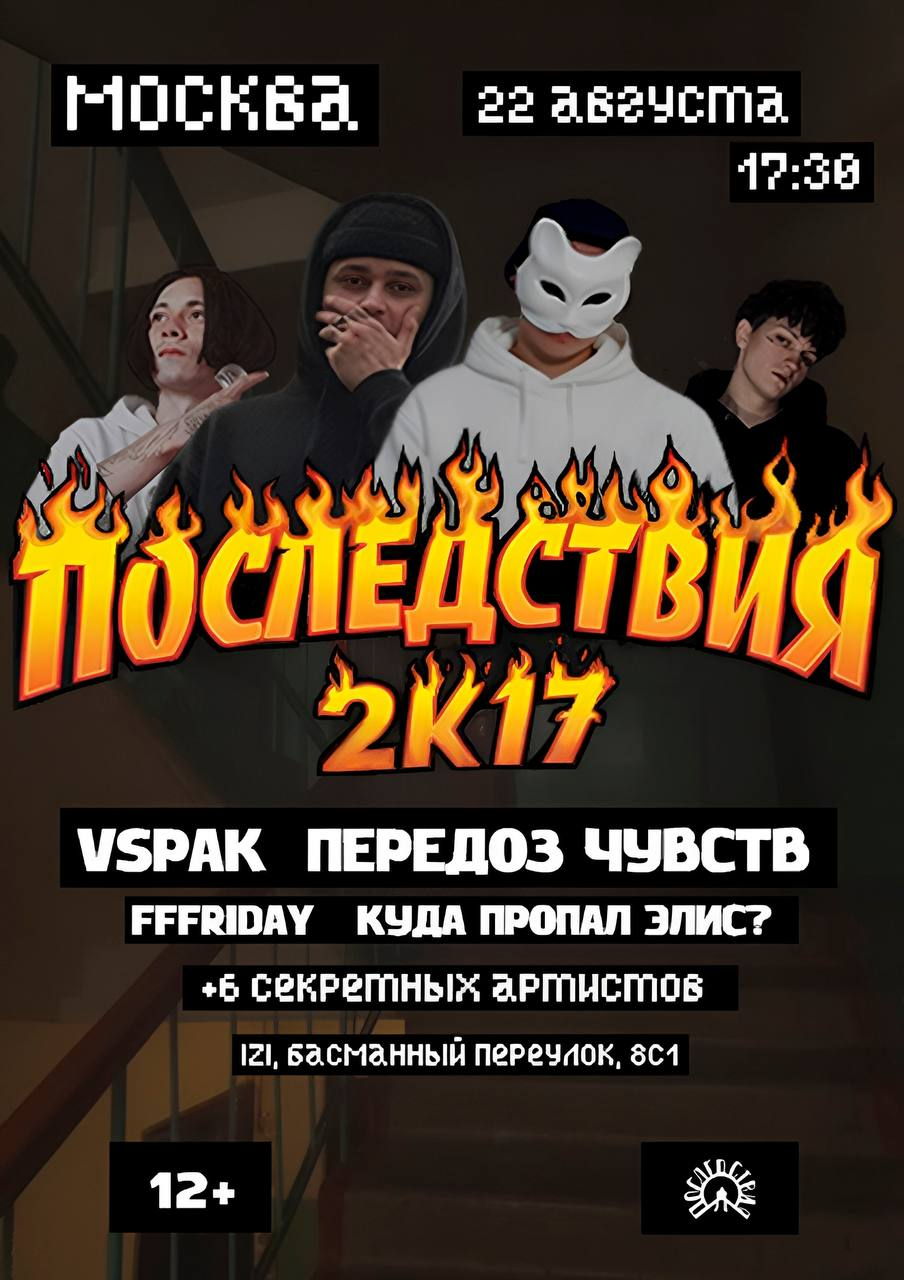
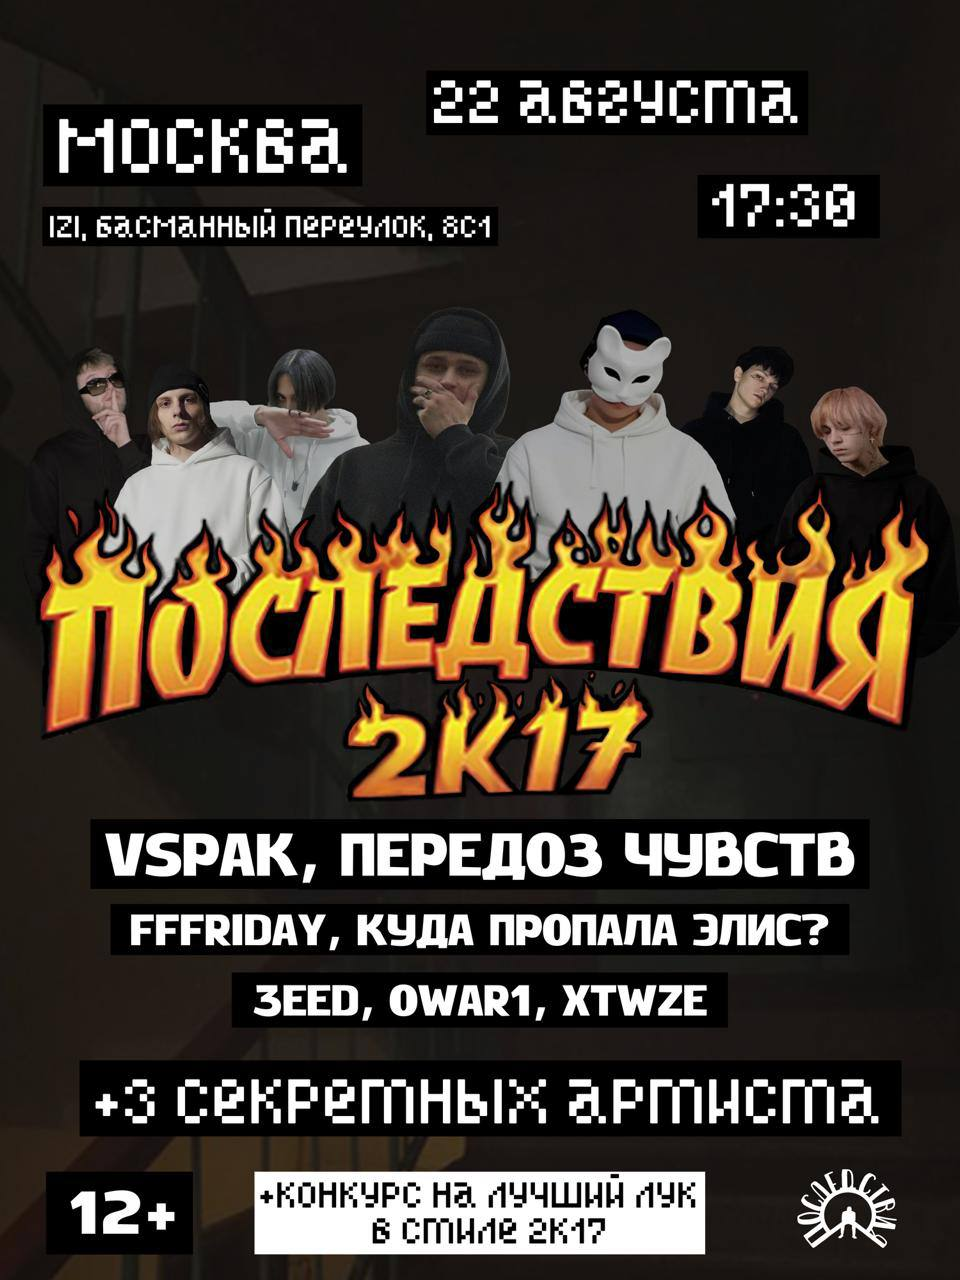
Add features for spam(add photo & html)

diff --git a/handlers/admin.py b/handlers/admin.py
@@ -1,9 +1,9 @@
 import asyncio
-
+from aiogram import F
 from aiogram import Router, F, Bot
 from aiogram.filters import Command
 from aiogram.fsm.context import FSMContext
-from aiogram.types import Message, CallbackQuery
+from aiogram.types import Message, CallbackQuery, InputMediaPhoto
 
 import db
 import text
@@ -52,12 +52,15 @@ async def cb_admin_back(callback: CallbackQuery, state: FSMContext):
 @router.callback_query(F.data == "broadcast:edit", Broadcast.confirming)
 async def cb_broadcast_edit(callback: CallbackQuery, state: FSMContext):
     await state.set_state(Broadcast.waiting_text)
-    await callback.message.edit_text(
+    try:
+        await callback.message.edit_reply_markup(reply_markup=None)
+    except Exception:
+        pass
+    await callback.message.answer(
         text.ASK_BROADCAST_TEXT,
-        reply_markup=ctrl.cancel_broadcast_kb(), # Добавляем и сюда
+        reply_markup=ctrl.broadcast_compose_kb(),
         parse_mode="HTML"
     )
-    await callback.answer()
     await callback.answer()
 
 
@@ -271,38 +274,184 @@ async def cb_broadcast(callback: CallbackQuery, state: FSMContext):
     if not await is_admin(callback.from_user.id):
         return
 
+    await state.update_data(text=None, photos=[], caption_entities=None)
     await state.set_state(Broadcast.waiting_text)
-    # Добавляем кнопку назад к сообщению с просьбой ввести текст
     await callback.message.edit_text(
         text.ASK_BROADCAST_TEXT,
-        reply_markup=ctrl.cancel_broadcast_kb(),  # Используем новую клавиатуру
+        reply_markup=ctrl.broadcast_compose_kb(),
         parse_mode="HTML"
     )
     await callback.answer()
 
 
+@router.message(Broadcast.waiting_text, F.media_group_id)
+async def process_broadcast_album(message: Message, state: FSMContext):
+    """Обработка альбома (несколько фото одним сообщением)"""
+    data = await state.get_data()
+    photos: list[str] = data.get("photos") or []
+
+    if len(photos) >= text.MAX_BROADCAST_PHOTOS:
+        await message.answer(text.BROADCAST_PHOTO_LIMIT)
+        return
+
+    # Добавляем фото (в альбоме message.photo содержит текущее фото)
+    photo_id = message.photo[-1].file_id
+    if photo_id not in photos:
+        photos.append(photo_id)
+
+    current_text = data.get("text")
+    update_payload = {"photos": photos}
+
+    # Берём подпись из первого сообщения альбома
+    if message.caption and not current_text:
+        current_text = message.caption
+        update_payload["text"] = current_text
+        update_payload["caption_entities"] = message.caption_entities
+
+    await state.update_data(**update_payload)
+
+    # Чтобы не спамить уведомлениями на каждый файл альбома — отвечаем только один раз
+    if message.media_group_id and len(photos) == 1:  # первое фото в группе
+        await message.answer(
+            text.broadcast_status(current_text, len(photos)),
+            reply_markup=ctrl.broadcast_compose_kb(),
+            parse_mode="HTML"
+        )
+    await message.answer("📸 Фото добавлено в альбом")
 
 
-@router.message(Broadcast.waiting_text)
-async def process_broadcast(message: Message, state: FSMContext):
-    await state.update_data(text=message.text)
+@router.message(Broadcast.waiting_text, F.photo)
+async def process_broadcast_photo(message: Message, state: FSMContext):
+    """Одиночное фото"""
+    data = await state.get_data()
+    photos: list[str] = data.get("photos") or []
+
+    if len(photos) >= text.MAX_BROADCAST_PHOTOS:
+        await message.answer(
+            text.BROADCAST_PHOTO_LIMIT,
+            reply_markup=ctrl.broadcast_compose_kb()
+        )
+        return
+
+    photos.append(message.photo[-1].file_id)
+
+    current_text = data.get("text")
+    update_payload = {"photos": photos}
+
+    if message.caption and not current_text:
+        current_text = message.caption
+        update_payload["text"] = current_text
+        update_payload["caption_entities"] = message.caption_entities
+
+    await state.update_data(**update_payload)
+
+    await message.answer(
+        text.broadcast_status(current_text, len(photos)),
+        reply_markup=ctrl.broadcast_compose_kb(),
+        parse_mode="HTML"
+    )
+
+
+@router.message(Broadcast.waiting_text, F.text)
+async def process_broadcast_text(message: Message, state: FSMContext):
+    await state.update_data(
+        text=message.text,
+        caption_entities=message.entities
+    )
+    data = await state.get_data()
+    photos = data.get("photos") or []
+
+    await message.answer(
+        text.broadcast_status(message.text, len(photos)),
+        reply_markup=ctrl.broadcast_compose_kb(),
+        parse_mode="HTML"
+    )
+
+
+@router.callback_query(F.data == "broadcast:done", Broadcast.waiting_text)
+async def cb_broadcast_done(callback: CallbackQuery, state: FSMContext):
+    data = await state.get_data()
+    broadcast_text = data.get("text")
+    photos: list[str] = data.get("photos") or []
+    caption_entities = data.get("caption_entities")
+
+    if not broadcast_text and not photos:
+        await callback.answer(text.BROADCAST_EMPTY, show_alert=True)
+        return
+
     await state.set_state(Broadcast.confirming)
-    await message.answer(f"Предпросмотр:\n\n{message.text}", reply_markup=ctrl.broadcast_confirm_kb())
+
+    try:
+        await callback.message.edit_reply_markup(reply_markup=None)
+    except Exception:
+        pass
+
+    # Предпросмотр с сохранением форматирования
+    if not photos:
+        await callback.message.answer(broadcast_text, entities=caption_entities)
+    elif len(photos) == 1:
+        await callback.message.answer_photo(
+            photos[0],
+            caption=broadcast_text,
+            caption_entities=caption_entities
+        )
+    else:
+        media = [InputMediaPhoto(media=p) for p in photos]
+        if broadcast_text:
+            media[0].caption = broadcast_text
+            media[0].caption_entities = caption_entities
+        await callback.message.answer_media_group(media)
+
+    await callback.message.answer(
+        text.BROADCAST_PREVIEW,
+        reply_markup=ctrl.broadcast_confirm_kb(),
+        parse_mode="HTML"
+    )
+    await callback.answer()
 
 
 @router.callback_query(F.data == "broadcast:confirm", Broadcast.confirming)
 async def cb_broadcast_send(callback: CallbackQuery, state: FSMContext):
     data = await state.get_data()
+    broadcast_text = data.get("text")
+    photos: list[str] = data.get("photos") or []
+    caption_entities = data.get("caption_entities")
+
     users = await db.get_all_users()
     count = 0
+
     for u in users:
         try:
-            await callback.bot.send_message(u["user_id"], data["text"])
+            if not photos:
+                await callback.bot.send_message(
+                    u["user_id"],
+                    broadcast_text,
+                    entities=caption_entities
+                )
+            elif len(photos) == 1:
+                await callback.bot.send_photo(
+                    u["user_id"],
+                    photos[0],
+                    caption=broadcast_text,
+                    caption_entities=caption_entities
+                )
+            else:
+                media = [InputMediaPhoto(media=p) for p in photos]
+                if broadcast_text:
+                    media[0].caption = broadcast_text
+                    media[0].caption_entities = caption_entities
+                await callback.bot.send_media_group(u["user_id"], media)
             count += 1
-        except:
+        except Exception:
             pass
+
     await state.clear()
-    await callback.message.edit_text(f"✅ Рассылка завершена. Получили: {count}")
+    try:
+        await callback.message.edit_reply_markup(reply_markup=None)
+    except Exception:
+        pass
+    await callback.message.answer(f"✅ Рассылка завершена. Получили: {count}")
+    await callback.answer()
 
 
 
@@ -461,4 +610,3 @@ async def cb_close_poll_confirm(callback: CallbackQuery, bot: Bot):
         await callback.message.edit_text("✅ Опрос успешно закрыт, итоги разосланы.")
     else:
         await callback.message.edit_text("❌ Опрос уже был закрыт.")
-

diff --git a/text.py b/text.py
@@ -1,4 +1,4 @@
-# ── Общие ──────────────────────────────────────────────────────────────────
+from __future__ import annotations
 from config import CHANNEL_ID
 
 WELCOME = (
@@ -6,6 +6,7 @@ WELCOME = (
     "Здесь ты можешь проголосовать за своего любимого артиста.\n\n"
     "Кто будет выступать на фестивале - зависит от тебя!"
 )
+MAX_BROADCAST_PHOTOS = 10
 
 NO_ACTIVE_POLL = "📭 Сейчас нет активных голосований. Загляни позже!"
 
@@ -89,11 +90,33 @@ VOTE_NOT_FOUND = "❌ Голос не найден."
 USER_NOT_FOUND = "❌ Пользователь не найден."
 
 
+MAX_BROADCAST_PHOTOS = 10
+
 # Рассылка
-ASK_BROADCAST_TEXT = "✍ Напишите сообщение для рассылки:"
+ASK_BROADCAST_TEXT = (
+    "✍ Отправьте текст и/или фото (до 10 шт.) для рассылки.\n\n"
+    "Можно прислать текст, одно фото с подписью, несколько фото по очереди "
+    "(или альбомом) — всё это соберётся в одну рассылку.\n"
+    "Когда всё готово — нажмите «✅ Готово»."
+)
 BROADCAST_PREVIEW = "👁 <b>Предпросмотр сообщения:</b>\n\nПодтвердить рассылку?"
 BROADCAST_SENT = "📨 Рассылка выполнена!"
 BROADCAST_CANCELLED = "↩ Рассылка отменена."
+BROADCAST_PHOTO_LIMIT = "⚠ Достигнут лимит — максимум 10 фото в одной рассылке."
+BROADCAST_EMPTY = "⚠ Добавьте текст или хотя бы одно фото перед отправкой."
+
+
+def broadcast_status(text_value: str | None, photos_count: int, limit: int = MAX_BROADCAST_PHOTOS) -> str:
+    lines = ["📦 <b>Черновик рассылки</b>\n"]
+
+    if text_value:
+        lines.append(f"<b>Текст:</b>\n{text_value}\n")
+    else:
+        lines.append("Текст: — не задан\n")
+
+    lines.append(f"Фото: {photos_count}/{limit}")
+    lines.append("\nМожете добавить ещё текст/фото или нажать «✅ Готово».")
+    return "\n".join(lines)
 
 # ── Ошибки ────────────────────────────────────────────────────────────────────
 NOT_ADMIN = "🚫 У вас нет доступа к этой команде."

diff --git a/controller.py b/controller.py
@@ -129,6 +129,14 @@ def cancel_broadcast_kb() -> InlineKeyboardMarkup:
     builder.button(text="🔙 Отмена", callback_data="admin:back")
     return builder.as_markup()
 
+
+def broadcast_compose_kb() -> InlineKeyboardMarkup:
+    builder = InlineKeyboardBuilder()
+    builder.button(text="✅ Готово", callback_data="broadcast:done")
+    builder.button(text="❌ Отмена", callback_data="admin:back")
+    builder.adjust(2)
+    return builder.as_markup()
+
 def cancel_creation_kb() -> InlineKeyboardMarkup:
     builder = InlineKeyboardBuilder()
     builder.button(text="🔙 Отмена (Назад)", callback_data="admin:back")
